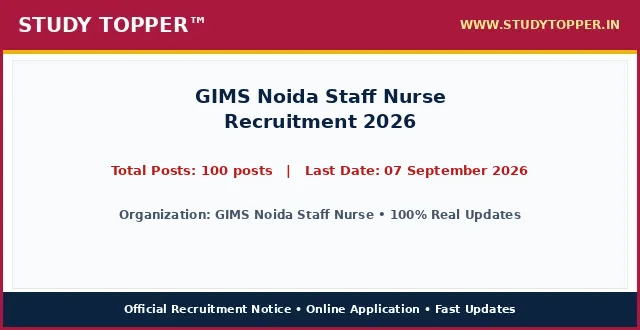
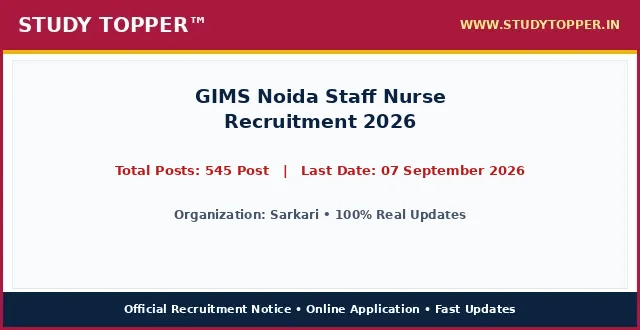
chore(lifecycle): daily auto-sort vacancies and update active dates

Changed region(s): [[0.1562, 0.4848, 0.8438, 0.5455], [0.1875, 0.6364, 0.8125, 0.6667]]

diff --git a/pages/gims-noida-staff-nurse-2026.html b/pages/gims-noida-staff-nurse-2026.html
@@ -987,12 +987,12 @@ ul.wp-block-latest-posts a:hover {
 <main class="site-main" id="main">
 <div class="gb-container gb-container-b39c368c">
 <h1 class="gb-headline gb-headline-e52a0102 gb-headline-text" style="font-size: 22px; font-weight: 700; color: #0000cd; text-align: left; margin: 8px 0 4px 0; line-height: 1.3; width: 100%; font-family: '-apple-system, BlinkMacSystemFont, 'Segoe UI', Roboto, 'Helvetica Neue', Arial, sans-serif', Times, serif, Hind, sans-serif;">GIMS Noida Staff Nurse Recruitment 2026</h1>
-<div class="gb-container gb-container-659bd175"><p style="color: #cd0808; font-weight: 700; font-size: 15px; margin: 2px 0 7px 0; text-align: left; font-family: '-apple-system, BlinkMacSystemFont, 'Segoe UI', Roboto, 'Helvetica Neue', Arial, sans-serif', Times, serif, Hind, sans-serif;">Post Date: August 21, 2026 07:48 PM</p></div>
-<p class="gb-headline gb-headline-550ae316 short_Details gb-headline-text" style="width: 100%; max-width: 100%; font-size: 16.8px; line-height: 1.55; color: #000000; text-align: justify; text-justify: inter-word; margin: 8px 0 14px 0; display: block; font-family: '-apple-system, BlinkMacSystemFont, 'Segoe UI', Roboto, 'Helvetica Neue', Arial, sans-serif', Times, serif, Hind, sans-serif;"><strong style="color: #0000cd;">GIMS Noida Staff Nurse</strong> has officially published the recruitment notice <strong style="color: #cd0808;">GIMS Noida Staff Nurse Recruitment 2026</strong> under notification number Official Advt 2026. Online applications are invited for 100 posts across multiple departments and cadre positions. Interested candidates possessing the requisite educational qualifications and falling between 18 Years to 40 Years can complete their online registration before the application deadline of 07 September 2026. Applicants should read the eligibility criteria, category reservation rules, and exam scheme thoroughly before submitting applications.</p>
+<div class="gb-container gb-container-659bd175"><p style="color: #cd0808; font-weight: 700; font-size: 15px; margin: 2px 0 7px 0; text-align: left; font-family: '-apple-system, BlinkMacSystemFont, 'Segoe UI', Roboto, 'Helvetica Neue', Arial, sans-serif', Times, serif, Hind, sans-serif;">Post Date: August 22, 2026 11:30 AM</p></div>
+<p class="gb-headline gb-headline-550ae316 short_Details gb-headline-text" style="width: 100%; max-width: 100%; font-size: 16.8px; line-height: 1.55; color: #000000; text-align: justify; text-justify: inter-word; margin: 8px 0 14px 0; display: block; font-family: '-apple-system, BlinkMacSystemFont, 'Segoe UI', Roboto, 'Helvetica Neue', Arial, sans-serif', Times, serif, Hind, sans-serif;"><strong style="color: #0000cd;">Sarkari</strong> has officially published the recruitment notice <strong style="color: #cd0808;">GIMS Noida Staff Nurse Recruitment 2026</strong> under notification number Official Advt 2026. Online applications are invited for 545 Post across multiple departments and cadre positions. Interested candidates possessing the requisite educational qualifications and falling between 18 Years to 40 Years can complete their online registration before the application deadline of 07 September 2026. Applicants should read the eligibility criteria, category reservation rules, and exam scheme thoroughly before submitting applications.</p>
 <div class="gb-container gb-container-9849916c"><div class="social-buttons-compact" style="display: flex; justify-content: flex-start; align-items: center; gap: 10px; margin: 10px 0 16px 0; width: 100%;"><a class="social-btn-compact wa" href="https://whatsapp.com/channel/0029Va9xyz" rel="noopener" style="background-color: #00d084; color: #ffffff; padding: 10px 18px; border-radius: 4px; text-decoration: none; font-weight: bold; font-size: 15.5px; display: inline-flex; align-items: center; justify-content: center; height: auto;" target="_blank">WhatsApp</a><a class="social-btn-compact tg" href="https://t.me/studytopperofficial" rel="noopener" style="background-color: #0088cc; color: #ffffff; padding: 10px 18px; border-radius: 4px; text-decoration: none; font-weight: bold; font-size: 15.5px; display: inline-flex; align-items: center; justify-content: center; height: auto;" target="_blank">Telegram</a></div></div>
 <div class="gb-container gb-container-f58e6ca1" style="border: 2px solid #5b032f; border-radius: 4px; overflow: hidden; margin: 15px 0 20px 0; background-color: #ffffff; width: 100%; box-sizing: border-box;">
 <h2 class="gb-headline gb-headline-2ca5a791 gb-headline-text" style="font-size: 16px; font-weight: 700; text-align: center; color: #ef0303; line-height: 1.3; padding: 6px 4px; margin: 0; background: #ffffff; font-family: '-apple-system, BlinkMacSystemFont, 'Segoe UI', Roboto, 'Helvetica Neue', Arial, sans-serif', Times, serif, Hind, sans-serif;">GIMS Noida Staff Nurse Recruitment 2026 &ndash; Latest Details &amp; Updates</h2>
-<h3 class="gb-headline gb-headline-7d5f86e8 gb-headline-text" style="font-size: 16px; font-weight: 600; text-align: center; color: #009703; line-height: 1.25; margin: 0; padding: 2px 4px 6px 4px; background: #ffffff; font-family: '-apple-system, BlinkMacSystemFont, 'Segoe UI', Roboto, 'Helvetica Neue', Arial, sans-serif', Times, serif, Hind, sans-serif;">GIMS Noida Staff Nurse : Details &amp; Summary</h3>
+<h3 class="gb-headline gb-headline-7d5f86e8 gb-headline-text" style="font-size: 16px; font-weight: 600; text-align: center; color: #009703; line-height: 1.25; margin: 0; padding: 2px 4px 6px 4px; background: #ffffff; font-family: '-apple-system, BlinkMacSystemFont, 'Segoe UI', Roboto, 'Helvetica Neue', Arial, sans-serif', Times, serif, Hind, sans-serif;">Sarkari : Details &amp; Summary</h3>
 <p class="gb-headline gb-headline-79adf169 gb-headline-text" style="margin: 0 0 6px 0; font-family: '-apple-system, BlinkMacSystemFont, 'Segoe UI', Roboto, 'Helvetica Neue', Arial, sans-serif', Times, serif, Hind, sans-serif; text-align: center; font-size: 18px; font-weight: 700;"><a href="/" style="color: #0000ff; text-decoration: underline;">StudyTopper.in</a></p>
 
 <style id="st-post-boxes-responsive-css">
@@ -1025,7 +1025,7 @@ ul.wp-block-latest-posts a:hover {
     <div style="background-color: #5b032f; color: #ffffff; padding: 8px 10px; font-size: 20px; font-weight: 700; text-align: center; font-family: '-apple-system, BlinkMacSystemFont, 'Segoe UI', Roboto, 'Helvetica Neue', Arial, sans-serif', Times, serif, Hind, sans-serif;">Important Dates</div>
     <div style="padding: 12px 14px; background-color: #ffffff;">
       <ul style="padding-left: 20px; margin: 0; list-style-type: disc; text-align: left; font-size: 14pt; line-height: 1.6; font-family: '-apple-system, BlinkMacSystemFont, 'Segoe UI', Roboto, 'Helvetica Neue', Arial, sans-serif', Times, serif, Hind, sans-serif;">
-        <li><span style="font-size: 14pt;">Online Apply Start Date : <strong>10 August 2026</strong></span></li><li><span style="font-size: 14pt;">Online Apply Last Date : <span style="color: #ff0000;"><strong>07 September 2026</strong></span></span></li><li><span style="font-size: 14pt;">Fee Payment Last Date : <span style="color: #ff0000;"><strong>07 September 2026</strong></span></span></li><li><span style="font-size: 14pt;">Exam Date : <strong>Notify Later</strong></span></li><li><span style="font-size: 14pt;">Admit Card Available : <strong>Before Exam</strong></span></li>
+        
       </ul>
     </div>
   </div>
@@ -1034,7 +1034,7 @@ ul.wp-block-latest-posts a:hover {
     <div style="background-color: #5b032f; color: #ffffff; padding: 8px 10px; font-size: 20px; font-weight: 700; text-align: center; font-family: '-apple-system, BlinkMacSystemFont, 'Segoe UI', Roboto, 'Helvetica Neue', Arial, sans-serif', Times, serif, Hind, sans-serif;">Application Fee</div>
     <div style="padding: 12px 14px; background-color: #ffffff;">
       <ul style="padding-left: 20px; margin: 0; list-style-type: disc; text-align: left; font-size: 14pt; line-height: 1.6; font-family: '-apple-system, BlinkMacSystemFont, 'Segoe UI', Roboto, 'Helvetica Neue', Arial, sans-serif', Times, serif, Hind, sans-serif;">
-        <li><span style="font-size: 14pt;">General, OBC, EWS : <strong>₹ 1298/-</strong></span></li><li><span style="font-size: 14pt;">SC, ST : <strong>₹ 944/-</strong></span></li><li><span style="font-size: 14pt;">PH Candidates : <strong>₹ 00/-</strong></span></li><li><span style="font-size: 14pt;">Payment Mode (Online) : <strong>You can make the payment using the following methods: Debit Card Credit Card Internet Banking IMPS Cash Card / Mobile Wallet</strong></span></li>
+        <li><span style="font-size: 14pt;">Bihar Police BPSSC Sub Inspector SI Prohibition Result 2026 Advt. No. : <strong>03/2026</strong></span></li><li><span style="font-size: 14pt;">UP Scholarship Online Form 2026 : <strong>2027</strong></span></li>
       </ul>
       <div style="margin-top: 10px; font-size: 14pt; line-height: 1.5; color: #000000; border-top: 1px dashed #ccc; padding-top: 8px; font-family: '-apple-system, BlinkMacSystemFont, 'Segoe UI', Roboto, 'Helvetica Neue', Arial, sans-serif', Times, serif, Hind, sans-serif;">
         <strong>Mode of Payment / Access:</strong> Online via Net Banking, Debit Card, Credit Card, UPI or Free Candidate Portal.
@@ -1047,10 +1047,10 @@ ul.wp-block-latest-posts a:hover {
 <div class="st-grid-row" style="display: flex; flex-wrap: wrap; width: 100%; border-top: 2px solid #5b032f; margin: 0; padding: 0; box-sizing: border-box;">
   <!-- Left Col: Age Limits -->
   <div class="st-col-half st-col-border-right" style="box-sizing: border-box; vertical-align: top;">
-    <div style="background-color: #046132; color: #ffffff; padding: 8px 10px; font-size: 17px; font-weight: 700; text-align: center; font-family: '-apple-system, BlinkMacSystemFont, 'Segoe UI', Roboto, 'Helvetica Neue', Arial, sans-serif', Times, serif, Hind, sans-serif;">GIMS Noida Staff Nurse : Age Limits As On 01 August 2026</div>
+    <div style="background-color: #046132; color: #ffffff; padding: 8px 10px; font-size: 17px; font-weight: 700; text-align: center; font-family: '-apple-system, BlinkMacSystemFont, 'Segoe UI', Roboto, 'Helvetica Neue', Arial, sans-serif', Times, serif, Hind, sans-serif;">Sarkari : Age Limits As On 01 August 2026</div>
     <div style="padding: 12px 14px; background-color: #ffffff;">
       <ul style="padding-left: 20px; margin: 0; list-style-type: disc; text-align: left; font-size: 14pt; line-height: 1.6; font-family: '-apple-system, BlinkMacSystemFont, 'Segoe UI', Roboto, 'Helvetica Neue', Arial, sans-serif', Times, serif, Hind, sans-serif;">
-        <li><span style="font-size: 14pt;">For Minimum Age : <strong>21 Years</strong></span></li><li><span style="font-size: 14pt;">For Maximum Age : <strong>40 Years</strong></span></li>
+        
       </ul>
     </div>
   </div>
@@ -1058,7 +1058,7 @@ ul.wp-block-latest-posts a:hover {
   <div class="st-col-half" style="box-sizing: border-box; vertical-align: top;">
     <div style="background-color: #f53c00; color: #ffffff; padding: 8px 10px; font-size: 20px; font-weight: 700; text-align: center; font-family: '-apple-system, BlinkMacSystemFont, 'Segoe UI', Roboto, 'Helvetica Neue', Arial, sans-serif', Times, serif, Hind, sans-serif;">Total Post</div>
     <div style="padding: 24px 10px; background-color: #ffffff; text-align: center;">
-      <span style="font-size: 28px; font-weight: 800; color: #000000; font-family: '-apple-system, BlinkMacSystemFont, 'Segoe UI', Roboto, 'Helvetica Neue', Arial, sans-serif', Times, serif, Hind, sans-serif;">100 posts</span>
+      <span style="font-size: 28px; font-weight: 800; color: #000000; font-family: '-apple-system, BlinkMacSystemFont, 'Segoe UI', Roboto, 'Helvetica Neue', Arial, sans-serif', Times, serif, Hind, sans-serif;">545 Post</span>
     </div>
   </div>
 </div>
@@ -1073,13 +1073,13 @@ ul.wp-block-latest-posts a:hover {
 <table style="border-collapse: collapse; width: 100%; height: 150px;">
 <tbody>
 <tr style="height: 25px;">
-<td colspan="2" style="width: 50%; text-align: center; height: 25px;"><span style="background-color: #000080; color: #ffffff; font-size: 14pt;"><strong> GIMS Noida Staff Nurse : Category Wise Vacancy Details </strong></span></td>
+<td colspan="2" style="width: 50%; text-align: center; height: 25px;"><span style="background-color: #000080; color: #ffffff; font-size: 14pt;"><strong> Sarkari : Category Wise Vacancy Details </strong></span></td>
 </tr>
 <tr style="height: 25px;">
 <td style="width: 50%; height: 25px; text-align: center;"><span style="font-size: 14pt;"><strong>Category / Particulars</strong></span></td>
 <td style="width: 50%; height: 25px; text-align: center;"><span style="font-size: 14pt;"><strong>Count / Status</strong></span></td>
 </tr>
-<tr><td style="text-align: center;">General</td><td style="text-align: center; font-weight: normal; color: inherit;">40 Posts</td></tr><tr><td style="text-align: center;">OBC</td><td style="text-align: center; font-weight: normal; color: inherit;">27 Posts</td></tr><tr><td style="text-align: center;">EWS</td><td style="text-align: center; font-weight: normal; color: inherit;">10 Posts</td></tr><tr><td style="text-align: center;">SC</td><td style="text-align: center; font-weight: normal; color: inherit;">21 Posts</td></tr><tr><td style="text-align: center;">ST</td><td style="text-align: center; font-weight: normal; color: inherit;">02 Posts</td></tr>
+
 </tbody>
 </table>
 <p>&nbsp;</p>
@@ -1090,11 +1090,7 @@ ul.wp-block-latest-posts a:hover {
 <th style="background-color: #f53c00; color: #ffffff; padding: 6px 10px; text-align: center; border: 1px solid #d35400; font-size: 15px; font-weight: 700; font-family: '-apple-system, BlinkMacSystemFont, 'Segoe UI', Roboto, 'Helvetica Neue', Arial, sans-serif', Times, serif, Hind, sans-serif;">Total Posts</th>
 <th style="background-color: #f53c00; color: #ffffff; padding: 6px 10px; text-align: center; border: 1px solid #d35400; font-size: 15px; font-weight: 700; font-family: '-apple-system, BlinkMacSystemFont, 'Segoe UI', Roboto, 'Helvetica Neue', Arial, sans-serif', Times, serif, Hind, sans-serif;">Eligibility Criteria</th>
 </tr>
-<tr>
-<td style="padding: 8px; border: 1px solid #ddd; font-weight: bold;">GIMS Noida Staff Nurse Recruitment 2026</td>
-<td style="padding: 8px; border: 1px solid #ddd; text-align: center; font-weight: bold;">100 posts</td>
-<td style="padding: 8px; border: 1px solid #ddd;">Passed 10th / 12th / Diploma / Bachelor Degree in relevant discipline from any recognized Board or University in India as per official notification.</td>
-</tr>
+
 </tbody>
 </table>
 <p>&nbsp;</p>
@@ -1104,10 +1100,10 @@ ul.wp-block-latest-posts a:hover {
 <table style="border-collapse: collapse; width: 100%;">
 <tbody>
 <tr>
-<td style="width: 100%; text-align: center;"><span style="background-color: #000080; color: #ffffff; font-size: 14pt; font-weight: bold; display: block; padding: 6px;"> How to Fill GIMS Noida Staff Nurse Online Application Form </span></td>
+<td style="width: 100%; text-align: center;"><span style="background-color: #000080; color: #ffffff; font-size: 14pt; font-weight: bold; display: block; padding: 6px;"> How to Fill Sarkari Online Application Form </span></td>
 </tr>
 <tr>
-<td style="width: 100%;"><ol style="margin:0; padding-left:18px; text-align: left !important; list-style-position: outside !important"><li style="margin-bottom:6px; text-align: left !important;">Visit official portal for GIMS Noida Staff Nurse Recruitment 2026 via direct application link in important links section below.</li><li style="margin-bottom:6px; text-align: left !important;">Read official recruitment notification carefully to verify category eligibility criteria and age limits.</li><li style="margin-bottom:6px; text-align: left !important;">Complete online candidate registration with valid mobile number and email ID.</li><li style="margin-bottom:6px; text-align: left !important;">Fill educational qualifications, identity details, and permanent address accurately.</li><li style="margin-bottom:6px; text-align: left !important;">Upload scanned photograph and signature in required dimensions.</li><li style="margin-bottom:6px; text-align: left !important;">Resize candidate photograph and signature accurately using StudyTopper Tools resizer at indtool.in.</li><li style="margin-bottom:6px; text-align: left !important;">Pay applicable category application fee online using Debit Card, Credit Card, Net Banking, or UPI.</li><li style="margin-bottom:6px; text-align: left !important;">Review full application form preview thoroughly and submit before 07 September 2026.</li><li style="margin-bottom:6px; text-align: left !important;">Download and print submitted application confirmation page for future reference.</li></ol></td>
+<td style="width: 100%;"><ol style="margin:0; padding-left:18px; text-align: left !important; list-style-position: outside !important"><li style="margin-bottom:6px; text-align: left !important;">Resize candidate photograph and signature accurately using the <a href="https://indtool.in" rel="noopener" target="_blank"><strong>StudyTopper Tools</strong></a> image resizer at indtool.in.</li></ol></td>
 </tr>
 </tbody>
 </table>
@@ -1115,12 +1111,12 @@ ul.wp-block-latest-posts a:hover {
 <table style="border-collapse: collapse; width: 100%;">
 <tbody>
 <tr>
-<td style="width: 100%; text-align: center;"><span style="background-color: #000080; color: #ffffff; font-size: 14pt;"><strong><span style="color: #ffffff;"> GIMS Noida Staff Nurse Recruitment 2026 : Mode Of Selection </span></strong></span></td>
+<td style="width: 100%; text-align: center;"><span style="background-color: #000080; color: #ffffff; font-size: 14pt;"><strong><span style="color: #ffffff;"> Sarkari Recruitment 2026 : Mode Of Selection </span></strong></span></td>
 </tr>
 <tr>
 <td style="width: 100%;">
 <ul class="wp-block-list" style="text-align: left !important; list-style-position: outside !important">
-<li style="text-align: left !important;"><span style="font-size: 14pt;"><strong>Computer Based Examination (CBE) / Evaluation</strong></span></li><li style="text-align: left !important;"><span style="font-size: 14pt;"><strong>Document Verification</strong></span></li><li style="text-align: left !important;"><span style="font-size: 14pt;"><strong>Final Merit Allotment</strong></span></li>
+<li style="text-align: left !important;"><span style="font-size: 14pt;"><strong>Computer Based Examination (CBE) / Written Exam</strong></span></li><li style="text-align: left !important;"><span style="font-size: 14pt;"><strong>Document Verification</strong></span></li><li style="text-align: left !important;"><span style="font-size: 14pt;"><strong>Medical Examination</strong></span></li>
 </ul>
 </td>
 </tr>
@@ -1158,7 +1154,7 @@ ul.wp-block-latest-posts a:hover {
 <span style="font-size: 19px; font-weight: 800; color: #000000; font-family: '-apple-system, BlinkMacSystemFont, 'Segoe UI', Roboto, 'Helvetica Neue', Arial, sans-serif', Times, serif, Hind, sans-serif;">Apply Online Link</span>
 </td>
 <td style="width: 50%; padding: 14px 16px; text-align: center;">
-<span style="font-size: 20px; font-weight: 800; font-family: '-apple-system, BlinkMacSystemFont, 'Segoe UI', Roboto, 'Helvetica Neue', Arial, sans-serif', Times, serif, Hind, sans-serif;"><a href="https://cdn3.digialm.com/EForms/configuredHtml/31586/101679/Index.html" aria-label="Click Here for Apply Online Link - GIMS Noida Staff Nurse Recruitment 2026" rel="noopener noreferrer" style="color: #0000ef; font-weight: 800; text-decoration: none;" target="_blank">Click Here</a></span>
+<span style="font-size: 20px; font-weight: 800; font-family: '-apple-system, BlinkMacSystemFont, 'Segoe UI', Roboto, 'Helvetica Neue', Arial, sans-serif', Times, serif, Hind, sans-serif;"><a href="https://www.sarkariresult.com/2026/mpesb-group2-subgroup-4-aug26/" aria-label="Click Here for Apply Online Link - GIMS Noida Staff Nurse Recruitment 2026" rel="noopener noreferrer" style="color: #0000ef; font-weight: 800; text-decoration: none;" target="_blank">Click Here</a></span>
 </td>
 </tr>
 <tr style="border-bottom: 1px solid #000000; background-color: #fff37a;">
@@ -1166,23 +1162,31 @@ ul.wp-block-latest-posts a:hover {
 <span style="font-size: 19px; font-weight: 800; color: #000000; font-family: '-apple-system, BlinkMacSystemFont, 'Segoe UI', Roboto, 'Helvetica Neue', Arial, sans-serif', Times, serif, Hind, sans-serif;">Check Official Notification</span>
 </td>
 <td style="width: 50%; padding: 14px 16px; text-align: center;">
-<span style="font-size: 20px; font-weight: 800; font-family: '-apple-system, BlinkMacSystemFont, 'Segoe UI', Roboto, 'Helvetica Neue', Arial, sans-serif', Times, serif, Hind, sans-serif;"><a href="https://www.gims.ac.in/assets/pdf/DetailedAdv1.pdf" aria-label="Click Here for Check Official Notification - GIMS Noida Staff Nurse Recruitment 2026" rel="noopener noreferrer" style="color: #0000ef; font-weight: 800; text-decoration: none;" target="_blank">Click Here</a></span>
+<span style="font-size: 20px; font-weight: 800; font-family: '-apple-system, BlinkMacSystemFont, 'Segoe UI', Roboto, 'Helvetica Neue', Arial, sans-serif', Times, serif, Hind, sans-serif;"><a href="" aria-label="Click Here for Check Official Notification - GIMS Noida Staff Nurse Recruitment 2026" rel="noopener noreferrer" style="color: #0000ef; font-weight: 800; text-decoration: none;" target="_blank">Click Here</a></span>
 </td>
 </tr>
 <tr style="border-bottom: 1px solid #000000; background-color: #fff37a;">
 <td style="width: 50%; padding: 14px 16px; border-right: 1px solid #000000; text-align: center;">
-<span style="font-size: 19px; font-weight: 800; color: #000000; font-family: '-apple-system, BlinkMacSystemFont, 'Segoe UI', Roboto, 'Helvetica Neue', Arial, sans-serif', Times, serif, Hind, sans-serif;">GIMS Noida Official Website</span>
+<span style="font-size: 19px; font-weight: 800; color: #000000; font-family: '-apple-system, BlinkMacSystemFont, 'Segoe UI', Roboto, 'Helvetica Neue', Arial, sans-serif', Times, serif, Hind, sans-serif;">Photo / Sign Resizer Tool</span>
 </td>
 <td style="width: 50%; padding: 14px 16px; text-align: center;">
-<span style="font-size: 20px; font-weight: 800; font-family: '-apple-system, BlinkMacSystemFont, 'Segoe UI', Roboto, 'Helvetica Neue', Arial, sans-serif', Times, serif, Hind, sans-serif;"><a href="https://www.gims.ac.in/recruitment.html" aria-label="Click Here for GIMS Noida Official Website - GIMS Noida Staff Nurse Recruitment 2026" rel="noopener noreferrer" style="color: #0000ef; font-weight: 800; text-decoration: none;" target="_blank">Click Here</a></span>
+<span style="font-size: 20px; font-weight: 800; font-family: '-apple-system, BlinkMacSystemFont, 'Segoe UI', Roboto, 'Helvetica Neue', Arial, sans-serif', Times, serif, Hind, sans-serif;"><a href="https://indtool.in" aria-label="Click Here for Photo / Sign Resizer Tool - GIMS Noida Staff Nurse Recruitment 2026" rel="noopener noreferrer" style="color: #0000ef; font-weight: 800; text-decoration: none;" target="_blank">Click Here</a></span>
 </td>
 </tr>
-<tr style=" background-color: #fff37a;">
+<tr style="border-bottom: 1px solid #000000; background-color: #fff37a;">
 <td style="width: 50%; padding: 14px 16px; border-right: 1px solid #000000; text-align: center;">
 <span style="font-size: 19px; font-weight: 800; color: #000000; font-family: '-apple-system, BlinkMacSystemFont, 'Segoe UI', Roboto, 'Helvetica Neue', Arial, sans-serif', Times, serif, Hind, sans-serif;">Check Sarkari Result</span>
 </td>
 <td style="width: 50%; padding: 14px 16px; text-align: center;">
 <span style="font-size: 20px; font-weight: 800; font-family: '-apple-system, BlinkMacSystemFont, 'Segoe UI', Roboto, 'Helvetica Neue', Arial, sans-serif', Times, serif, Hind, sans-serif;"><a href="/" aria-label="Click Here for Check Sarkari Result - GIMS Noida Staff Nurse Recruitment 2026" rel="noopener noreferrer" style="color: #0000ef; font-weight: 800; text-decoration: none;" >Click Here</a></span>
+</td>
+</tr>
+<tr style=" background-color: #fff37a;">
+<td style="width: 50%; padding: 14px 16px; border-right: 1px solid #000000; text-align: center;">
+<span style="font-size: 19px; font-weight: 800; color: #000000; font-family: '-apple-system, BlinkMacSystemFont, 'Segoe UI', Roboto, 'Helvetica Neue', Arial, sans-serif', Times, serif, Hind, sans-serif;">Sarkari Website</span>
+</td>
+<td style="width: 50%; padding: 14px 16px; text-align: center;">
+<span style="font-size: 20px; font-weight: 800; font-family: '-apple-system, BlinkMacSystemFont, 'Segoe UI', Roboto, 'Helvetica Neue', Arial, sans-serif', Times, serif, Hind, sans-serif;"><a href="" aria-label="Click Here for Sarkari Website - GIMS Noida Staff Nurse Recruitment 2026" rel="noopener noreferrer" style="color: #0000ef; font-weight: 800; text-decoration: none;" target="_blank">Click Here</a></span>
 </td>
 </tr>
 </tbody>
@@ -1198,7 +1202,7 @@ ul.wp-block-latest-posts a:hover {
 <p style="margin: 0 0 16px 0; color: #333333; line-height: 1.6;">Ans. The last date for online submission of application is 07 September 2026.</p><p style="margin: 0 0 4px 0;"><strong style="color: #000080;">Q2. What is the age limit for GIMS Noida Staff Nurse Recruitment 2026?</strong></p>
 <p style="margin: 0 0 16px 0; color: #333333; line-height: 1.6;">Ans. Candidate age should generally be between 18 Years and 40 Years as on 01 August 2026. Age relaxation is applicable per rules.</p><p style="margin: 0 0 4px 0;"><strong style="color: #000080;">Q3. What is the application fee for GIMS Noida Staff Nurse Recruitment 2026?</strong></p>
 <p style="margin: 0 0 16px 0; color: #333333; line-height: 1.6;">Ans. Application fee varies by category (e.g., General/OBC: Rs. 100/-, SC/ST/PwD: Exempted).</p><p style="margin: 0 0 4px 0;"><strong style="color: #000080;">Q4. How many total posts are available in GIMS Noida Staff Nurse Recruitment 2026?</strong></p>
-<p style="margin: 0 0 16px 0; color: #333333; line-height: 1.6;">Ans. A total of 100 posts have been officially announced for this recruitment drive.</p><p style="margin: 0 0 4px 0;"><strong style="color: #000080;">Q5. How can I apply online for GIMS Noida Staff Nurse Recruitment 2026?</strong></p>
+<p style="margin: 0 0 16px 0; color: #333333; line-height: 1.6;">Ans. A total of 545 Post have been officially announced for this recruitment drive.</p><p style="margin: 0 0 4px 0;"><strong style="color: #000080;">Q5. How can I apply online for GIMS Noida Staff Nurse Recruitment 2026?</strong></p>
 <p style="margin: 0 0 0 0; color: #333333; line-height: 1.6;">Ans. Eligible candidates can click the 'Apply Online' link in the Important Links table, register, fill details, resize photo/signature via indtool.in, and submit before 07 September 2026.</p>
   </div>
 </div>
